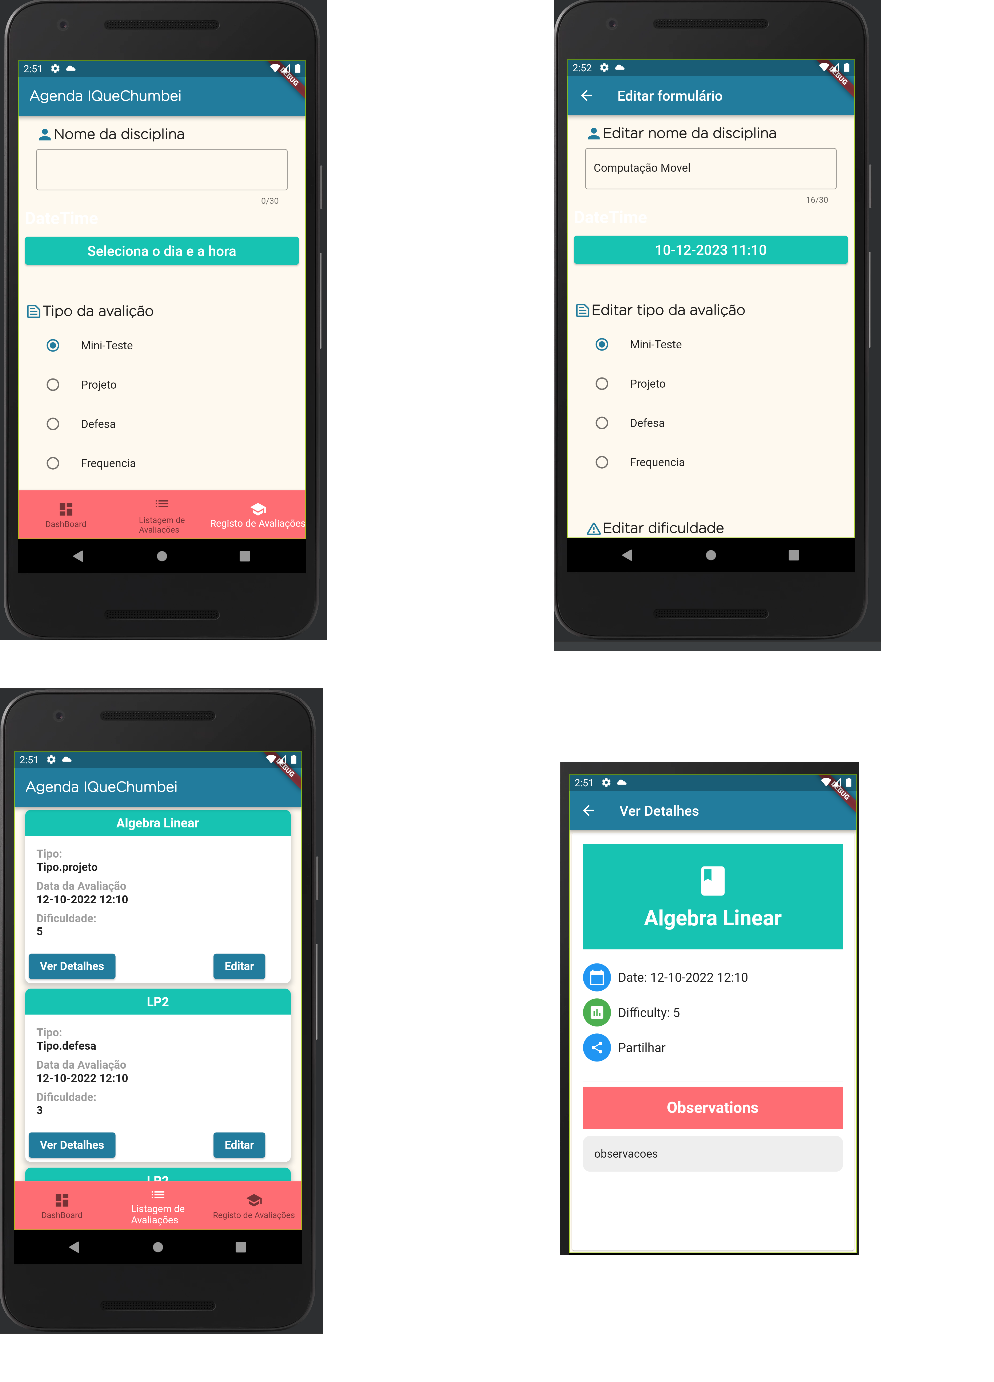
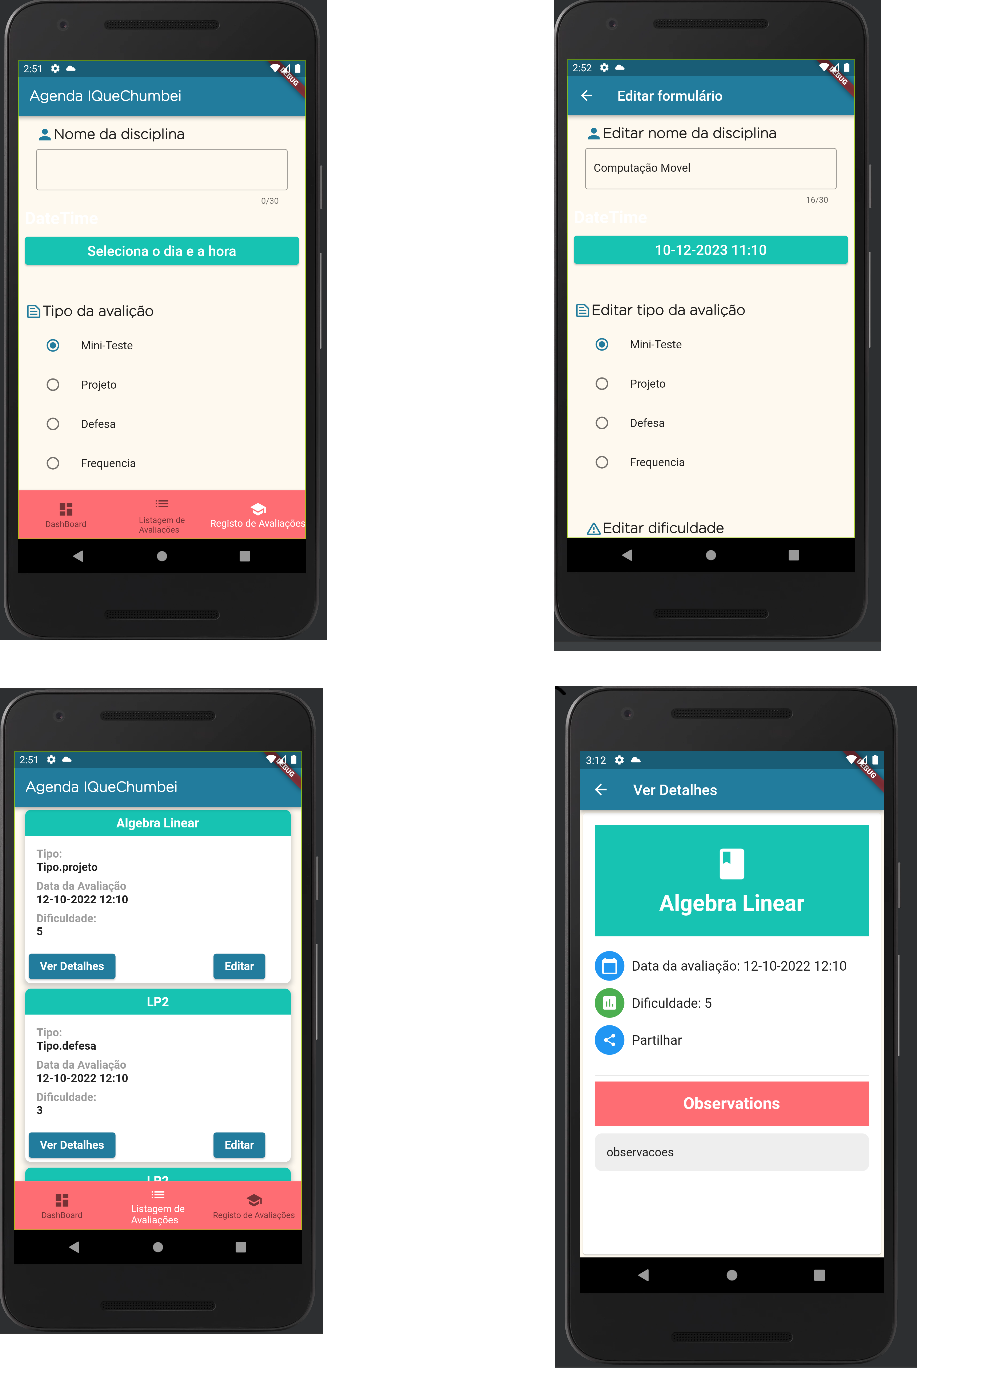
Commit fixe

Changed region(s): [[0.5614, 0.4978, 0.9356, 0.9957]]

diff --git a/lib/pages/details_widget.dart b/lib/pages/details_widget.dart
@@ -3,7 +3,6 @@ import 'package:mini_projeto/models/avalicao.dart';
 import 'package:mini_projeto/widgets/share_button.dart';
 import 'package:share_plus/share_plus.dart';
 
-import 'build_text_widget.dart';
 
 class SubjectDetailsCard extends StatelessWidget {
   final Avaliacao avaliacao;
@@ -65,7 +64,7 @@ class SubjectDetailsCard extends StatelessWidget {
                   ),
                   SizedBox(width: 10.0),
                   Text(
-                    'Date: ${avaliacao.data}',
+                    'Data da avaliação: ${avaliacao.data}',
                     style: TextStyle(
                       fontSize: 18.0,
                     ),
@@ -86,7 +85,7 @@ class SubjectDetailsCard extends StatelessWidget {
                   ),
                   SizedBox(width: 10.0),
                   Text(
-                    'Difficulty: ${avaliacao.nivel}',
+                    'Dificuldade: ${avaliacao.nivel}',
                     style: TextStyle(
                       fontSize: 18.0,
                     ),

diff --git a/lib/widgets/note_card_widget.dart b/lib/widgets/note_card_widget.dart
@@ -3,7 +3,7 @@ import 'package:mini_projeto/models/avalicao.dart';
 import 'package:mini_projeto/pages/editar_avaliacao.dart';
 
 import '../pages/listar_registo.dart';
-import 'build_details_widget.dart';
+import '../pages/details_widget.dart';
 
 
 class NoteCard extends StatefulWidget {

diff --git a/README.md b/README.md
@@ -1,3 +1,6 @@
 Mini Projeto Agenda IQueChumbei
 Realizado por: Cláudio Costa 22104010
 ![](Ecrãs.png?raw=true "Lista de Avaliação")
+![](Tabela.png?raw=true "Lista de Avaliação")
+A funcionalidade Dealer está no ecrã dos detalhes  é o botão pequeno por baixo
+da dificuldade e foi implementada utilizando uma biblioteca que é a share_plus: ^6.3.1
